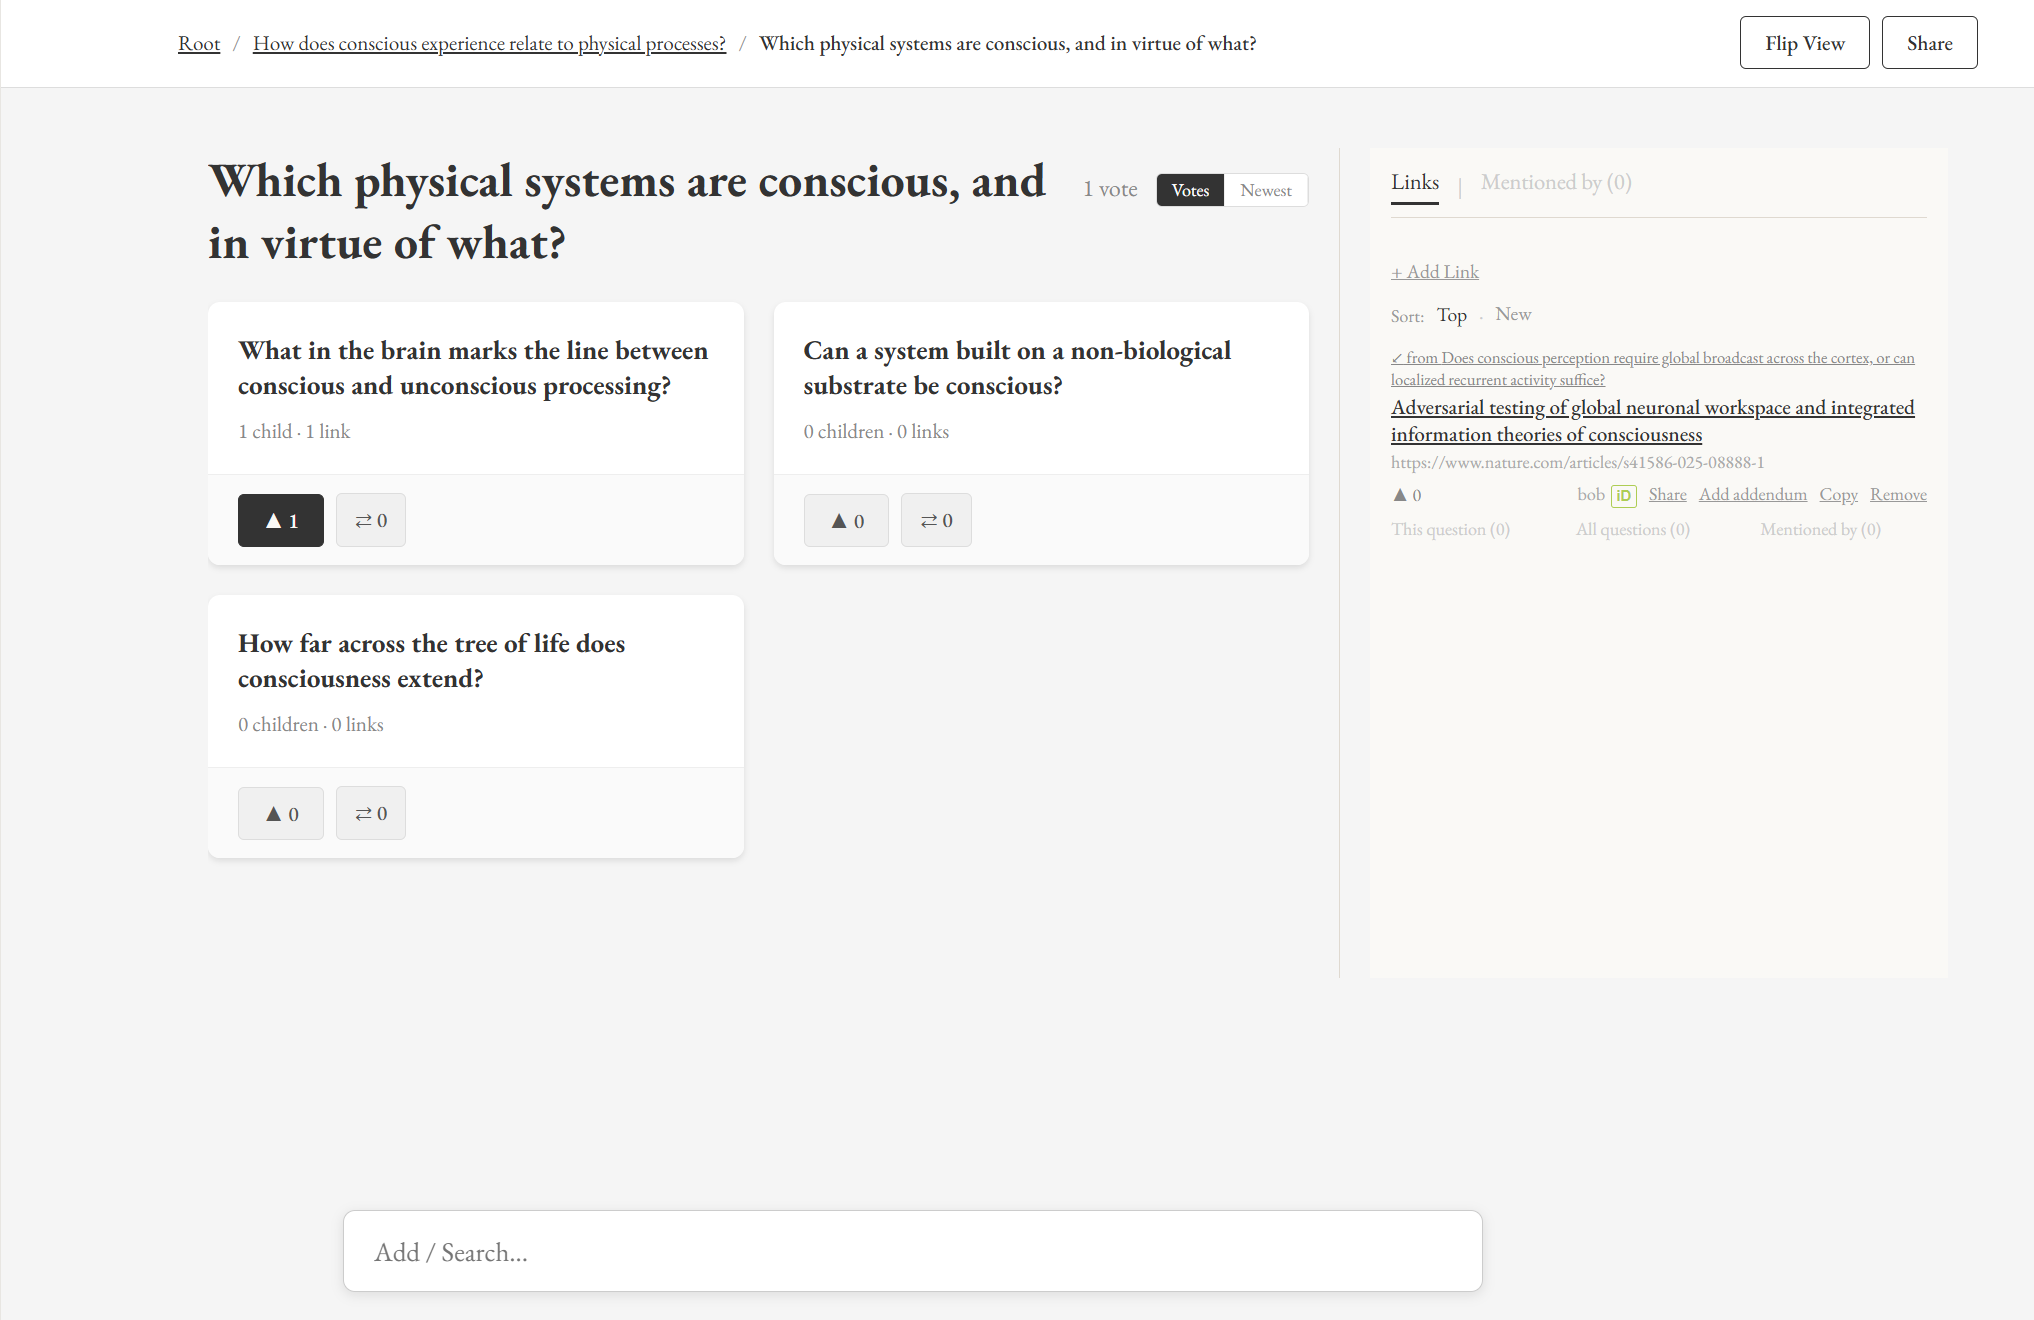
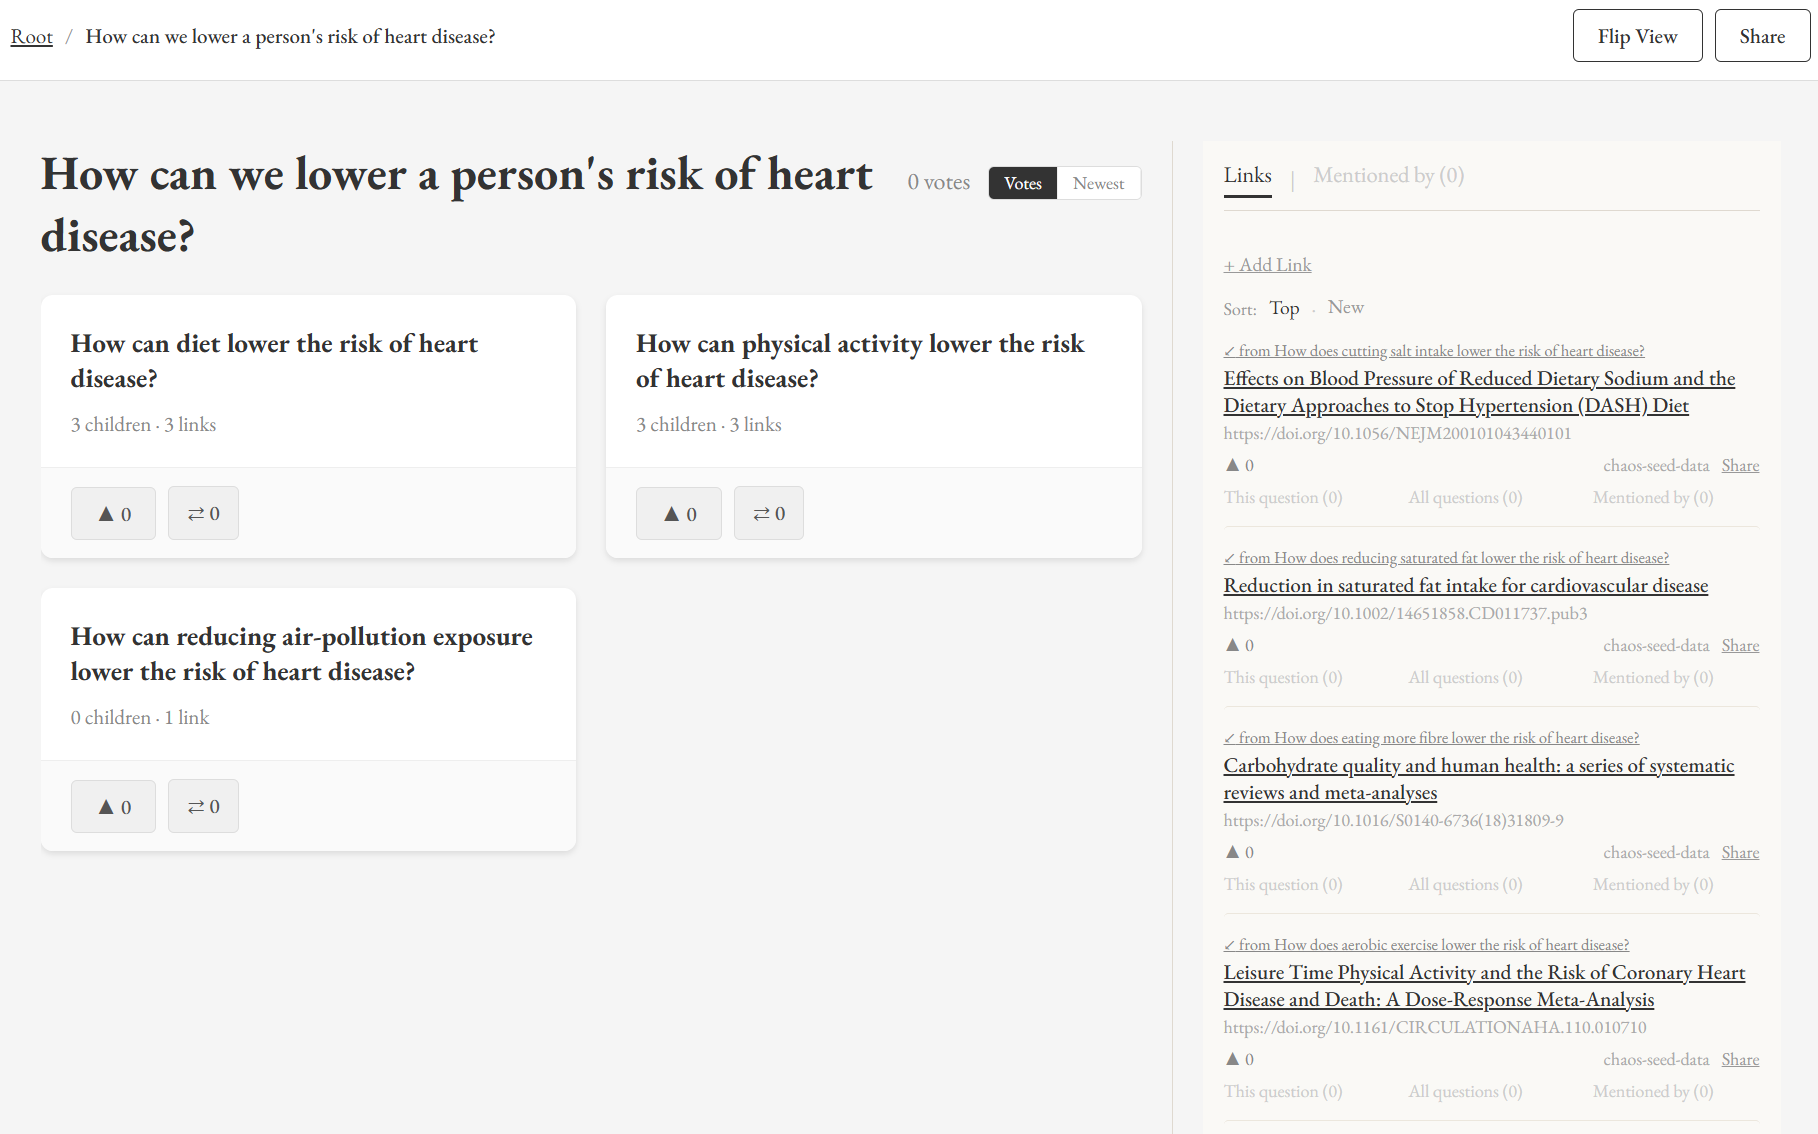
update screenshots, essay

diff --git a/frontend/src/components/InfoPage.jsx b/frontend/src/components/InfoPage.jsx
@@ -4,7 +4,7 @@ import { useAuth } from '../contexts/AuthContext';
 import { pagesAPI } from '../services/api';
 
 const PAGE_TITLES = {
-  'using-orca': 'What is orca?',
+  'using-orca': 'what is orca?',
   'thoroughly-conscious-ignorance': 'Thoroughly Conscious Ignorance',
 };
 
@@ -39,7 +39,7 @@ const UsingOrcaContent = ({ onImageClick }) => {
         with the research aimed at answering them.
       </p>
 
-      {showImage('children_view_questions.png', 'Children view of research questions')}
+      {showImage('children_view_questions_soil.png', 'Children view of research questions')}
 
       <div style={usingOrcaStyles.sectionTitle}>Flip View</div>
       <p style={usingOrcaStyles.intro}>
@@ -50,21 +50,13 @@ const UsingOrcaContent = ({ onImageClick }) => {
 
       {showImage('flip_view_questions.png', 'Flip View of a question with multiple parent paths')}
 
-      <div style={usingOrcaStyles.sectionTitle}>Link Surfacing</div>
-      <p style={usingOrcaStyles.intro}>
-        Research work that is linked to a child concept is automatically surfaced within the entire
-        parent path, so that at any level of abstraction you can explore and vote on the full
-        variety of work taking place within. Each question becomes a reading list of the research linked
-        to any of its descendant questions.
-      </p>
-
       <div style={usingOrcaStyles.sectionTitle}>Votes</div>
       <p style={usingOrcaStyles.intro}>
         You can view all the questions and links you've voted for on a single page for easy navigation and 
         maintenance of votes.
       </p>
 
-      {showImage('votes_page.png', 'Votes page listing voted questions and links')}
+      {showImage('votes_page_soil.png', 'Votes page listing voted questions and links')}
 
       <div style={usingOrcaStyles.sectionTitle}>Append-only; vote set colors</div>
       <p style={usingOrcaStyles.intro}>
@@ -87,8 +79,7 @@ const UsingOrcaContent = ({ onImageClick }) => {
       <p style={usingOrcaStyles.intro}>
         This is a free, open-source project for use by researchers:{' '}
         <a href="https://github.com/orca-concepts/tempest" target="_blank" rel="noopener noreferrer" style={usingOrcaStyles.subtleLink}>https://github.com/orca-concepts/tempest</a>.
-        {' '}In general, this app aims to apply the categorical nature of concepts to larger, more
-        complex expressions like research questions.
+        {' '}In general, this app aims to index information in a way that is more closely aligned to the goals of those accessing it, an idea that could be iterated on.
       </p>
     </div>
   );
@@ -118,54 +109,38 @@ const ThoroughlyConsciousIgnoranceContent = ({ onImageClick }) => {
       <p style={usingOrcaStyles.epigraphAttribution}>James Clerk Maxwell</p>
 
       <p style={usingOrcaStyles.intro}>
-        The infrastructure of modern science indexes answers, not questions. We build vast ontologies, 
-        curate libraries of citations, develop detailed impact metrics, but when it comes to mapping the 
-        structure of the unknown, we seem to fall flat. The conscious ignorance that Maxwell 
-        praises seems only to exist tacitly in the minds of individual scientists, raising the question: 
-        what does it mean to pursue thoroughly conscious ignorance?
+       The organizational mechanism of modern science indexes the answers, not the questions. It can build vast ontologies, 
+       curate libraries of citations, and develop detailed impact metrics, but it fails to attach itself to the genuine goal 
+       of any researcher who uses it: discovery. The moment of discovery is a moment when the landscape of research questions 
+       changes: some are closed, some are left open but thought about differently, and some new questions are opened. This is 
+       the landscape of the conscious ignorance that Maxwell praises and it is left to exist tacitly in the minds of individual 
+       researchers, raising the question: what does it mean for us to pursue thoroughly conscious ignorance?*
       </p>
 
       <p style={usingOrcaStyles.intro}>
-        When we think about thoroughly exploring normal concepts, we reflect on their nature as categories: 
-        we build ourselves a taxonomical bridge between abstract notions and concrete instances. Each step lets 
-        us talk and think about the world around us in new ways: you can reason about mammals or nuclear fusion 
-        or coping mechanisms without reciting the full list of  features and examples that define them. If we treat 
-        research questions as concepts in this way, the project of building out a thoroughly conscious ignorance becomes 
-        one of mapping the avenues of abstraction that span from the ‘big questions’ the drive progress in a discipline 
-        down to questions so concrete they could be addressed by a single research project.
+        The project of practicing thoroughly conscious ignorance is a project of structuring this landscape of questions. Any 
+        research project can be defined as the work of finding the answer to the one or more very concrete questions around which 
+        the project is based. But there are broader questions the work also contributes knowledge to, questions that are too broad 
+        and abstract to be answered by a single project. The ‘answer’ to these questions is a conversation about compiling the right 
+        concrete questions and using the knowledge that comes from answering them to ask new questions; the project of pursuing thoroughly 
+        conscious ignorance is to create a place where this conversation can happen. 
       </p>
 
+       {showImage('soil_simple_graph.png', 'Simple graph demonstrating question-goal decomposition')}
+
       <p style={usingOrcaStyles.intro}>
-        This is the project that orca aims to facilitate. orca is a place where members of the
-        research community can taxonomize questions with a parent/child hierarchy, voting on which
-        more-concrete children they engage with for a given more-abstract parent
-        and then linking to research material when the questions reach an appropriate level of
-        concreteness. These links surface upwards along the hierarchy, so each question in orca becomes
-        a reading list of the material attached to its descendant questions.
+        Look at the above diagram. It recognizes that there is a goal in soil science to find out how much carbon we can store in the world’s soils. 
+        This question might be too broad and abstract to answer definitively within a single research project. But if we also recognize the sub-goals, 
+        the more concrete and actionable questions that posit what we need to understand in order to tackle the parent question, we can start to put 
+        together a productive and generative picture of the goal-environment of the researchers in this area. 
       </p>
 
-      {showImage('children_view_questions.png', 'Children view of research questions')}
+      {showImage('soil_complex_graph.png', 'Complex graph demonstrating question-goal decomposition')}
 
       <p style={usingOrcaStyles.intro}>
-        When users inevitably vote on different subsets of child questions, these sets are tagged with
-        unique colors, so that the different tastes and directions of research for a given parent
-        question can be easily seen. The color sets can also act as filters to focus on a particular
-        direction. This visualization encourages a dynamic taxonomy; the best ways to differentiate a
-        given parent question (and indeed the best methods of differentiating questions in general)
-        are diverse and should change over time. You can see the full list of questions you have voted
-        for and use this list to navigate back to those questions, so you can change your votes as you
-        revisit them and see how the voting landscape has changed.
-      </p>
-
-      {showImage('vote_set.png', 'Children view displaying color vote sets')}
-      {showImage('votes_page.png', 'Votes page listing voted questions and links')}
-
-      <p style={usingOrcaStyles.intro}>
-        Active, dynamic categorization of questions is key to the project of thoroughly conscious
-        ignorance. As we become more conscious of the world around us, our taxonomies change
-        drastically and new language is developed to meet new levels of understanding. To apply this
-        practice to questions is to pave the way for more differentiated and better understood
-        ignorance, setting the stage for that ignorance to transform into new understanding.
+        This goal-environment is a dynamic and continuous assertion among researchers in a field about where that field should go next. Decomposing goal 
+        concepts is how brains like ours succeed in the world, and so in research, where questions are this wonderful linguistic proxy for goals, we 
+        should be doing it collectively and at speed. orca is a platform where these kinds of goal-environments can be built and maintained. 
       </p>
     </div>
   );
@@ -199,6 +174,13 @@ const usingOrcaStyles = {
     margin: '0 0 28px 0',
     textAlign: 'right',
     marginRight: '20%',
+  },
+  footnote: {
+    fontSize: '1.0em',
+    fontFamily: '"EB Garamond", Georgia, serif',
+    color: '#555',
+    lineHeight: '1.6',
+    margin: '8px 0 20px 0',
   },
   useCase: {
     fontSize: '1.1em',
@@ -503,12 +485,19 @@ const InfoPage = ({ slug, onRequestLogin }) => {
             {isEssay && <ThoroughlyConsciousIgnoranceContent onImageClick={setLightbox} />}
 
             {isEssay && (
+              <p style={usingOrcaStyles.footnote}>
+                * I first read this quotation in <em>Ignorance: How It Drives Science</em> by Stuart Firestein, a treatise on 
+                the importance of closely examining our relationship to the unknown in science that I would highly recommend.
+              </p>
+            )}
+
+            {isEssay && (
               <div style={styles.footerNav}>
                 <button style={styles.footerNavButton} onClick={() => navigate('/')}>
                   <span style={styles.footerArrow}>←</span> use orca
                 </button>
                 <button style={styles.footerNavButton} onClick={() => navigate('/using-orca')}>
-                  learn more about orca <span style={styles.footerArrow}>→</span>
+                  what is orca? <span style={styles.footerArrow}>→</span>
                 </button>
               </div>
             )}
